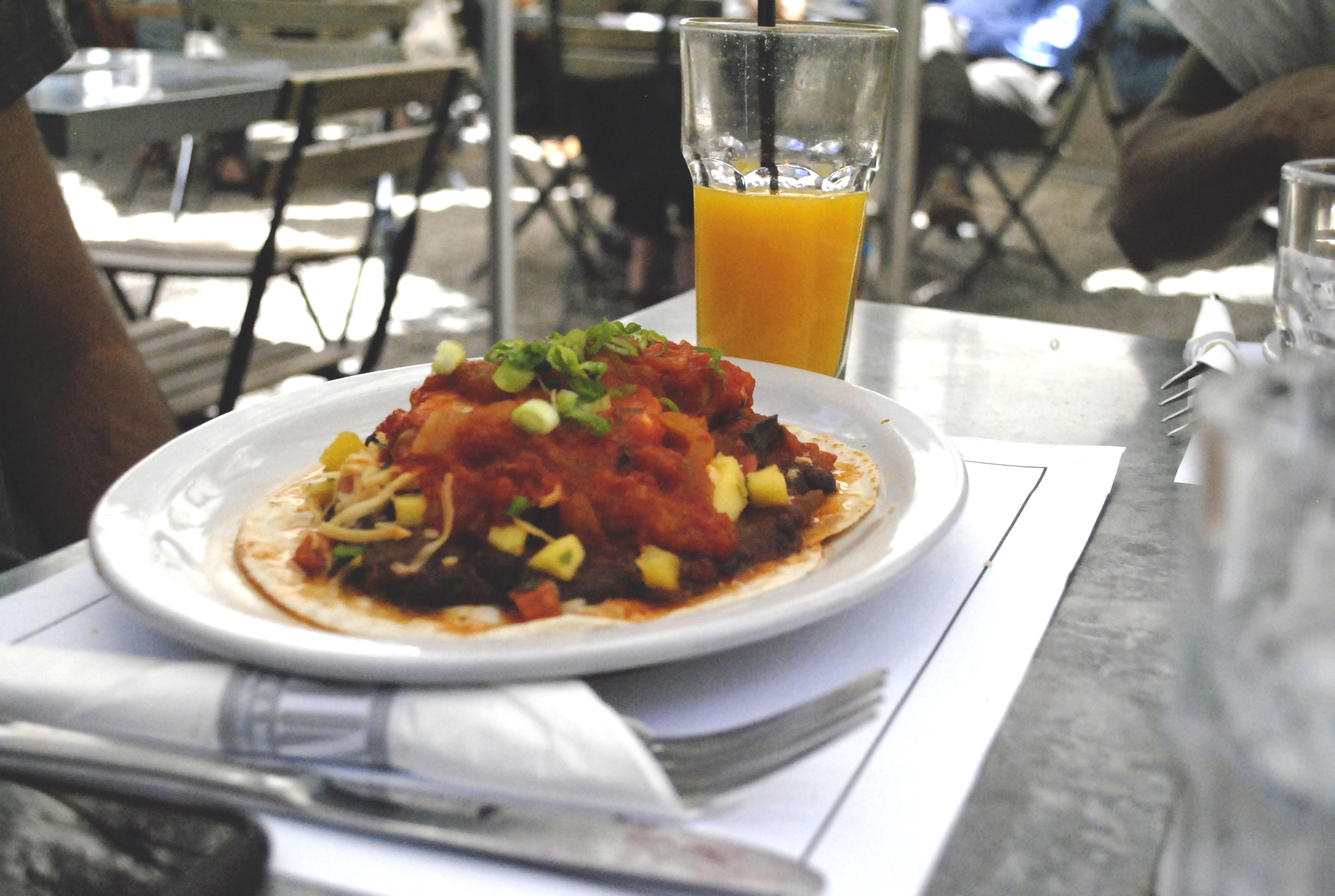
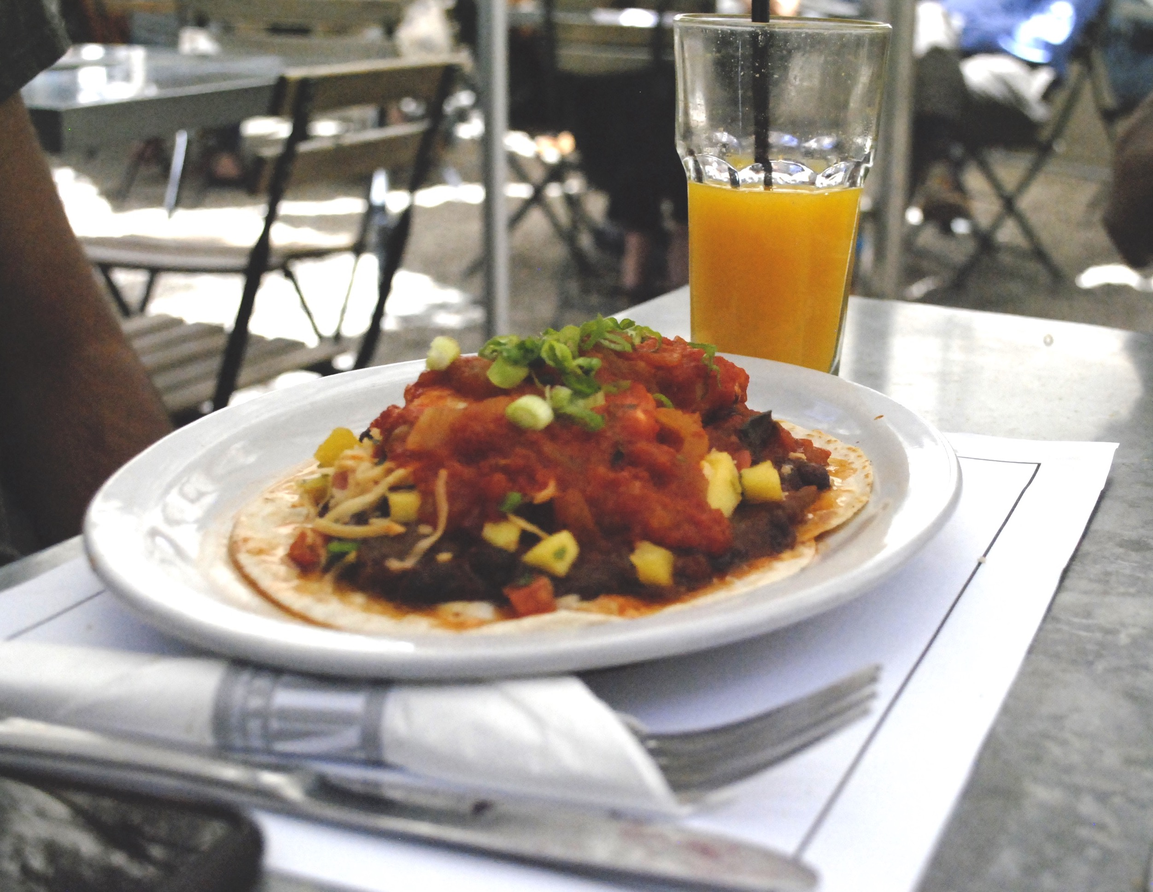
Editing pics

diff --git a/sound_effects.html b/sound_effects.html
@@ -13,7 +13,7 @@ body, html {
 .bgimg {
     background-position: center;
     background-size: cover;
-    background-image: url("https://github.com/suveenat/suveenat.github.io/blob/master/Photos/adjusted_tofu.jpg?raw=true");
+    background-image: url("https://github.com/suveenat/suveenat.github.io/blob/master/Photos/edited_huevos_rancheros.jpg?raw=true");
     /*background-image: url("https://raw.githubusercontent.com/suveenat/suveenat.github.io/b395c84fc161a329e231f7dbcaa7450a61832704/Photos/_DSC0682.JPG");*/
     min-height: 75%;
 }

diff --git a/amplitude_frequency.html b/amplitude_frequency.html
@@ -13,7 +13,7 @@ body, html {
 .bgimg {
     background-position: center;
     background-size: cover;
-    background-image: url("https://github.com/suveenat/suveenat.github.io/blob/master/Photos/edited_muffin_cropped.JPG?raw=true");
+    background-image: url("https://github.com/suveenat/suveenat.github.io/blob/master/Photos/edited_muffin_cropped_short.JPG?raw=true");
     min-height: 75%;
 }
 .menu {
